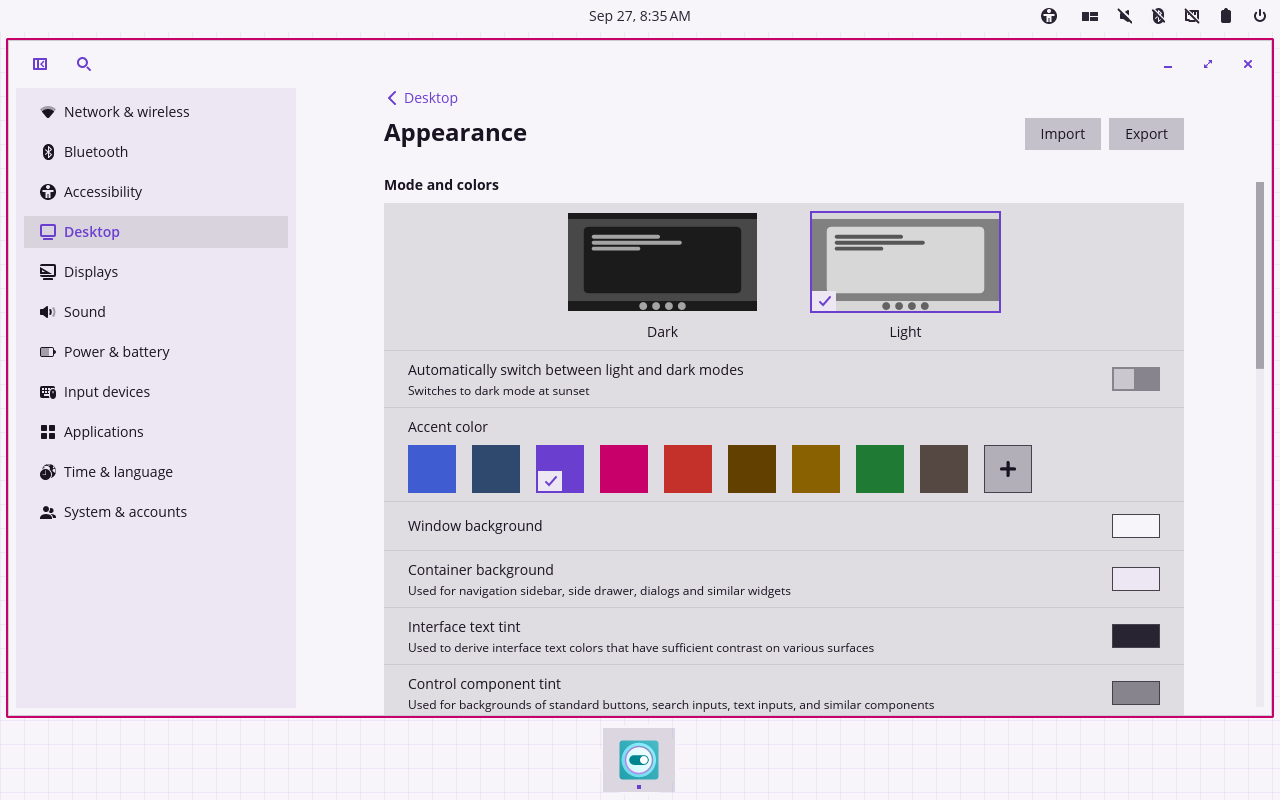
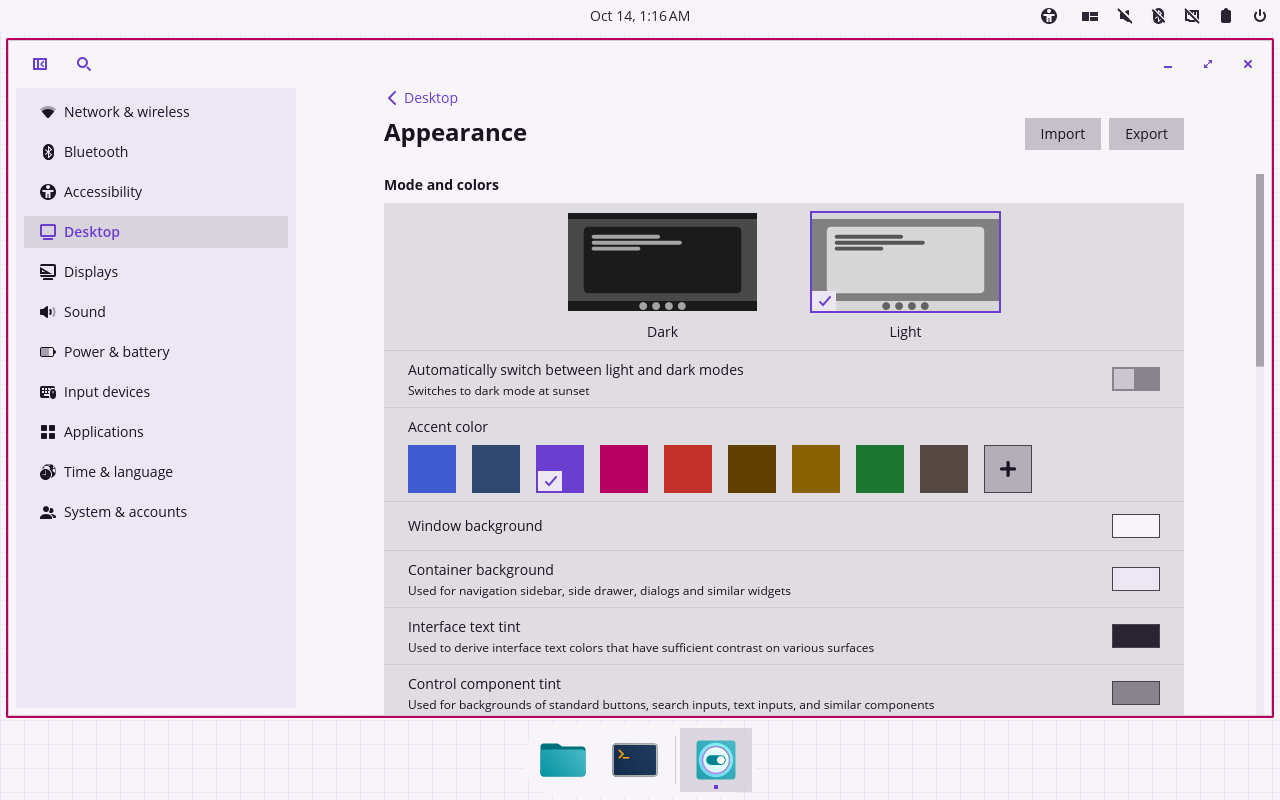
Check GTK 3 and run the check in CI; frames take edge; reshoot
tools/a11y-check.py runs the GTK 3 sampler too, in dark and light, and
CI runs the whole check in a Debian testing container: GTK 4.20 or
later, and the fonts and GTK the screenshots use, since glyphs measured
on the screen depend on both (on Fedora 44 two pass here and fail
there). A session that fails now prints shotbox's output. preview3.py
names its controls, the info bar's own close button included.

GTK 3 found a text view whose only boundary was its frame's line edge,
1.3:1; GtkFrame and .frame take edge in GTK 3 and 4, as cards and boxed
lists do, since a frame holds controls.

The Roundcube mailbox is dated from yesterday evening, not a fixed day,
so the list reads by weekday whenever it's shot. The COSMIC image pins
shotbox 0.4.2; its newer COSMIC pins apps the image lacks to the dock,
drawn as blank gears, so the scene pins only Files and Terminal. The
GTK, KDE, Roundcube and COSMIC screenshots are reshot.

Changed region(s): [[0.4062, 0.9062, 0.5938, 1.0], [0.4688, 0.0, 0.5312, 0.0312]]

diff --git a/gtk-4.0/gtk.css b/gtk-4.0/gtk.css
@@ -444,8 +444,8 @@ link:focus:focus-visible {
 button.link, button.link:hover { background-color: transparent; box-shadow: none; }
 
 /* === Surfaces =============================================================
-   A panel on the page, with a --line edge; a card or boxed list, which holds
-   controls, has an --edge one. That is the only box there is. */
+   A panel on the page, with a --line edge; a card, boxed list or frame, which
+   holds controls, has an --edge one. That is the only box there is. */
 
 /* Adwaita lets the page run up under a flat header bar. Here the bar is a
    panel and always is, whether or not anything has scrolled beneath it. */
@@ -469,6 +469,7 @@ button.card, .boxed-list {
   box-shadow: 0 0 0 1px var(--edge);
 }
 list.boxed-list > row, list.content > row { border-bottom-color: var(--line); }
+frame, .frame { border-color: var(--edge); }
 
 popover > contents {
   padding: 6px;

diff --git a/gtk-3.0/_common.css b/gtk-3.0/_common.css
@@ -372,7 +372,8 @@ paned > separator:not(#_) { background-color: transparent; background-image: ima
 paned > separator.wide:not(#_) { background-color: @panel; background-image: image(@line), image(@line); }
 paned > separator:selected:not(#_) { background-image: image(@pink); }
 
-frame > border:not(#_), .frame:not(#_), calendar:not(#_) { border-color: @line; }
+/* A frame holds controls, a text view or a list, so it has a control's edge. */
+frame > border:not(#_), .frame:not(#_), calendar:not(#_) { border-color: @edge; }
 list.frame:not(#_), frame > list:not(#_), .frame > list:not(#_) { background-color: @panel; }
 list.frame > row:not(:last-child):not(#_) { border-bottom: 1px solid @line; }
 

diff --git a/tools/a11y-check.py b/tools/a11y-check.py
@@ -1,8 +1,9 @@
 #!/usr/bin/env python3
-"""Check the GTK 4 theme as a screen reader and a low-vision reader meet it,
-on tools/preview.py in a sealed session: every control named, text and
-control edges above WCAG's floors as drawn on the screen, and the focus
-seen at every stop. Dark, light and high contrast.
+"""Check the GTK 4 and GTK 3 themes as a screen reader and a low-vision
+reader meet them, on tools/preview.py and tools/preview3.py in sealed
+sessions: every control named, text and control edges above WCAG's floors
+as drawn on the screen, and the focus seen at every stop. Dark and light,
+and GTK 4 in high contrast too.
 
     tools/a11y-check.py
 
@@ -11,6 +12,7 @@ floors on the palette; this checks them on the pixels.
 """
 
 import json
+import shutil
 import subprocess
 import sys
 import tempfile
@@ -26,6 +28,11 @@ EXEMPT = {
     ("button", "Search"): "header bar buttons are flat",
     ("button", "Main menu"): "header bar buttons are flat",
     ("toggle button", "Main menu"): "header bar buttons are flat",
+    ("toggle button", "Menu"): "header bar buttons are flat",
+    ("button", "example.org"): "a link button is a link, with no edge by design",
+    ("toggle button", "off"): "GTK 3 calls a switch a toggle button, so its off "
+                              "mark, a graphic at 3.5:1, is measured as text",
+    ("toggle button", "off, hovered"): "the same switch, hovered",
     ("button", "Minimize"): "window controls are flat",
     ("button", "Maximize"): "window controls are flat",
     ("button", "Close"): "window controls are flat",
@@ -33,30 +40,33 @@ EXEMPT = {
     ("button", "Close Tab"): "a tab's close button is flat, and drawn only on hover",
     ("text", "Display name"): "a row's edge is its boxed list's",
     ("combo box", "Theme"): "a row's edge is its boxed list's",
-    ("text", "notes"): "a text view's edge is its frame's",
+    ("text", "notes"): "a text view's edge is its frame's, just outside it",
 }
 # libadwaita's tab bar scrolls its tabs in a scroll pane it doesn't name.
 LINT_IGNORE = "focusable scroll pane with no name"
 
 INSIDE = """
 "$PREVIEW" $PREVIEW_ARGS >/dev/null 2>&1 &
-shotbox wait window preview.py >/dev/null && shotbox wait stable >/dev/null
-shotbox a11y lint --window preview.py --ignore "$LINT_IGNORE" > "$OUT/lint.txt"
+shotbox wait window "$WINDOW" >/dev/null && shotbox wait stable >/dev/null
+shotbox a11y lint --window "$WINDOW" --ignore "$LINT_IGNORE" > "$OUT/lint.txt"
 echo $? > "$OUT/lint.status"
-shotbox a11y contrast --edges 3 --window preview.py --json > "$OUT/contrast.json"
-shotbox a11y tabwalk --visible --key ctrl+Tab --window preview.py --json > "$OUT/walk.json"
+shotbox a11y contrast --edges 3 --window "$WINDOW" --json > "$OUT/contrast.json"
+shotbox a11y tabwalk --visible --key ctrl+Tab --window "$WINDOW" --json > "$OUT/walk.json"
 true
 """
 
 
-def check(label, preview_args, session_args):
+def check(label, program, window, preview_args, session_args):
     with tempfile.TemporaryDirectory() as out:
-        subprocess.run(
+        run = subprocess.run(
             ["shotbox", "run", "--a11y", "--screen", "1240x1040", *session_args,
-             "--env", f"PREVIEW={HERE / 'preview.py'}", "--env", f"PREVIEW_ARGS={preview_args}",
+             "--env", f"PREVIEW={HERE / program}", "--env", f"PREVIEW_ARGS={preview_args}",
+             "--env", f"WINDOW={window}",
              "--env", f"OUT={out}", "--env", f"LINT_IGNORE={LINT_IGNORE}",
              "--", "sh", "-c", INSIDE],
-            check=True, stdout=subprocess.DEVNULL, stderr=subprocess.DEVNULL)
+            capture_output=True, text=True)
+        if run.returncode:
+            sys.exit(f"{label}: the session failed\n{run.stdout}{run.stderr}")
         out = Path(out)
         problems = []
         if (out / "lint.status").read_text().strip() != "0":
@@ -79,7 +89,14 @@ def check(label, preview_args, session_args):
 
 
 if __name__ == "__main__":
-    runs = [("dark", "", []), ("light", "--light", []),
-            ("high contrast", "", ["--high-contrast"])]
-    results = [check(*run) for run in runs]
+    with tempfile.TemporaryDirectory() as home:
+        # GTK 3 reads a theme by name, from a home it looks in.
+        shutil.copytree(HERE.parent / "themes", Path(home) / ".local/share/themes")
+        gtk3 = ["--seed", home, "--env", "GTK_THEME=Neon-Doll-{}"]
+        runs = [("GTK 4, dark", "preview.py", "preview.py", "", []),
+                ("GTK 4, light", "preview.py", "preview.py", "--light", []),
+                ("GTK 4, high contrast", "preview.py", "preview.py", "", ["--high-contrast"]),
+                ("GTK 3, dark", "preview3.py", "photos", "", [a.format("Dark") for a in gtk3]),
+                ("GTK 3, light", "preview3.py", "photos", "", [a.format("Light") for a in gtk3])]
+        results = [check(*run) for run in runs]
     sys.exit(0 if all(results) else 1)

diff --git a/tools/preview3.py b/tools/preview3.py
@@ -21,6 +21,13 @@ gi.require_version("Gdk", "3.0")
 from gi.repository import Gdk, Gio, GLib, Gtk  # noqa: E402
 
 
+def named(widget, name):
+    """Give a widget the accessible name a screen reader says, which a
+    control with no label of its own lacks; `shotbox a11y lint` checks."""
+    widget.get_accessible().set_name(name)
+    return widget
+
+
 def sidebar():
     lb = Gtk.ListBox()
     for icon, name in [
@@ -81,7 +88,9 @@ def toggles():
     for active, hovered, sensitive in [(False, False, True), (True, False, True),
                                        (False, True, True), (True, True, True),
                                        (False, False, False), (True, False, False)]:
-        sw = Gtk.Switch(active=active, sensitive=sensitive, valign=Gtk.Align.CENTER)
+        sw = named(Gtk.Switch(active=active, sensitive=sensitive, valign=Gtk.Align.CENTER),
+                   ("on" if active else "off") + (", hovered" if hovered else "")
+                   + ("" if sensitive else ", disabled"))
         box.pack_start(hover(sw) if hovered else sw, False, False, 0)
     box.pack_start(Gtk.CheckButton(label="disabled", sensitive=False), False, False, 0)
     return box
@@ -89,13 +98,15 @@ def toggles():
 
 def ranges():
     box = Gtk.Box(orientation=Gtk.Orientation.VERTICAL, spacing=12)
-    box.pack_start(Gtk.Scale(adjustment=Gtk.Adjustment(value=40, upper=100), draw_value=False), False, False, 0)
+    box.pack_start(named(Gtk.Scale(adjustment=Gtk.Adjustment(value=40, upper=100), draw_value=False),
+                         "volume"), False, False, 0)
     box.pack_start(Gtk.ProgressBar(fraction=0.62), False, False, 0)
     row = Gtk.Box(spacing=8)
-    row.pack_start(Gtk.Entry(placeholder_text="grep -i"), True, True, 0)
-    e = Gtk.Entry(text="focused field")
+    row.pack_start(named(Gtk.Entry(placeholder_text="grep -i"), "search"), True, True, 0)
+    e = named(Gtk.Entry(text="focused field"), "field")
     row.pack_start(e, True, True, 0)
-    row.pack_start(Gtk.SpinButton(adjustment=Gtk.Adjustment(value=24, upper=100, step_increment=1)), False, False, 0)
+    row.pack_start(named(Gtk.SpinButton(adjustment=Gtk.Adjustment(value=24, upper=100, step_increment=1)),
+                         "size"), False, False, 0)
     combo = Gtk.ComboBoxText()
     for t in ("Neon Doll", "Adwaita"):
         combo.append_text(t)
@@ -114,7 +125,8 @@ def group():
     lb.get_style_context().add_class("frame")
     for title, sub, widget in [
         ("Email", "doll@example.org", Gtk.Image(icon_name="go-next-symbolic")),
-        ("Show QR code", "On the contact page", Gtk.Switch(active=True, valign=Gtk.Align.CENTER)),
+        ("Show QR code", "On the contact page",
+         named(Gtk.Switch(active=True, valign=Gtk.Align.CENTER), "Show QR code")),
         ("Level", "levelbar", Gtk.LevelBar(value=0.7, width_request=160, valign=Gtk.Align.CENTER)),
     ]:
         row = Gtk.Box(spacing=12, margin=10)
@@ -160,7 +172,8 @@ def text():
         "Mono carries the chrome; sans carries what you read.\n"
     )
     buf.select_range(buf.get_iter_at_offset(2), buf.get_iter_at_offset(22))
-    tv = Gtk.TextView(buffer=buf, top_margin=8, bottom_margin=8, left_margin=10, right_margin=10)
+    tv = named(Gtk.TextView(buffer=buf, top_margin=8, bottom_margin=8, left_margin=10, right_margin=10),
+               "notes")
     frame = Gtk.Frame()
     frame.add(tv)
     return frame
@@ -179,7 +192,8 @@ def header(win):
     mb = Gtk.MenuButton(menu_model=menu, image=Gtk.Image(icon_name="open-menu-symbolic"))
     win.menu_button = mb
     hb.pack_end(mb)
-    hb.pack_end(Gtk.Button.new_from_icon_name("system-search-symbolic", Gtk.IconSize.BUTTON))
+    hb.pack_end(named(Gtk.Button.new_from_icon_name("system-search-symbolic", Gtk.IconSize.BUTTON),
+                      "Search"))
     return hb
 
 
@@ -236,6 +250,13 @@ def content(win):
     ib = Gtk.InfoBar(message_type=Gtk.MessageType.WARNING, show_close_button=True)
     ib.get_content_area().add(Gtk.Label(label="The draft has not been saved."))
     ib.add_button("Save", 1)
+    # The close button is the info bar's own, and GTK 3 leaves it unnamed.
+    def name_close(w):
+        if isinstance(w, Gtk.Button) and not w.get_label():
+            named(w, "Close")
+        elif isinstance(w, Gtk.Container):
+            w.forall(name_close)
+    ib.forall(name_close)
 
     scroller = Gtk.ScrolledWindow(vexpand=True)
     scroller.add(col)

diff --git a/tools/roundcube-mail.py b/tools/roundcube-mail.py
@@ -18,7 +18,11 @@ from email.utils import format_datetime
 from datetime import datetime, timedelta, timezone
 
 ME = "Doll <doll@neon.test>"
-NOW = datetime(2026, 9, 26, 18, 40, tzinfo=timezone.utc)
+# Yesterday evening: Roundcube dates mail by how long ago it was, so the list
+# reads the same whenever it's drawn, a weekday for the last week and a full
+# date past it.
+NOW = (datetime.now(timezone.utc) - timedelta(days=1)).replace(
+    hour=18, minute=40, second=0, microsecond=0)
 
 FOLDERS = ["Drafts", "Sent", "Junk", "Trash", "Archive", "Archive.2025",
            "Lists", "Lists.gnome-shell", "Lists.gtk"]

diff --git a/CONTRIBUTING.md b/CONTRIBUTING.md
@@ -12,9 +12,10 @@ falls under the contrast floors in the README's rules. Generated files are
 committed, so installing needs nothing but `sh`.
 
 `tools/a11y-check.py` checks the same floors on the screen: it runs the GTK 4
-sampler in dark, light and high contrast, and fails for a control with no
-name, text or a control's edge under its floor as drawn, or a Tab stop whose
-focus doesn't show. What it reports that isn't a problem is listed in the
+sampler in dark, light and high contrast and the GTK 3 one in dark and light,
+and fails for a control with no name, text or a control's edge under its
+floor as drawn, or a Tab stop whose focus doesn't show. CI runs it on Debian
+testing, since glyphs measured on the screen depend on the fonts and GTK. What it reports that isn't a problem is listed in the
 script, each with its reason. It needs shotbox 0.4.2 or later.
 
 The installers have tests, which run them against scratch home folders:
@@ -30,7 +31,7 @@ tools/build.sh [--check]                          # rebuild everything from toke
 tools/build-palettes.py [--check]                 # just the palette copies in the GTK and Emacs themes
 tools/build-gtk2.py [--check]                     # the GTK 2 part of the theme dirs
 tools/preview.py [--light] [--menu] [--dialog]    # GTK 4 widget sampler
-tools/a11y-check.py                               # the sampler's names, contrast and focus, on the screen
+tools/a11y-check.py                               # the samplers' names, contrast and focus, on the screen
 tools/shoot.sh out.png [flags]                    # the same, screenshotted in a sealed session
 tools/preview3.py / tools/shoot3.sh               # GTK 3
 tools/build-shell.py [--check|--coverage]         # regenerate the Shell theme
